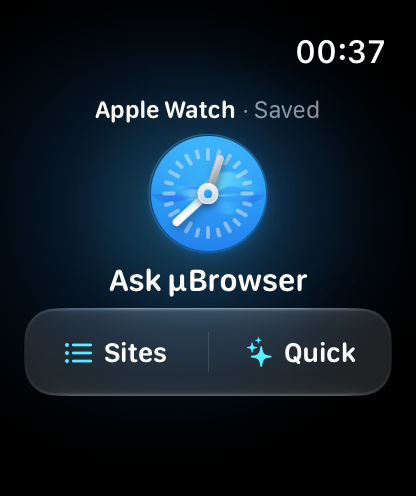
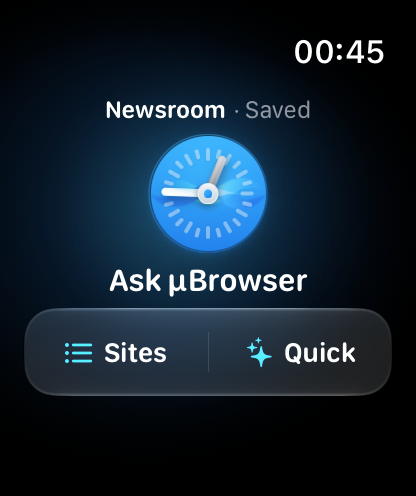
Update µBrowser press kit with latest Newsroom screenshots

Changed region(s): [[0.2188, 0.1815, 0.7812, 0.2419], [0.375, 0.3024, 0.5625, 0.4839], [0.6875, 0.0605, 0.9375, 0.1512]]

diff --git a/mubrowser-5-presskit/index.html b/mubrowser-5-presskit/index.html
@@ -28,13 +28,13 @@ sitemap: false
         <img src="screenshots/01-ask-mubrowser-introduction.png" alt="Ask µBrowser introduction on Apple Watch" width="416" height="496">
       </a>
       <a class="screenshot" href="screenshots/02-ask-mubrowser-home.png" download aria-label="Download the Ask µBrowser home screen screenshot">
-        <img src="screenshots/02-ask-mubrowser-home.png" alt="Ask µBrowser home screen with Sites and Quick actions" width="416" height="496">
+        <img src="screenshots/02-ask-mubrowser-home.png" alt="Ask µBrowser home screen with Newsroom saved and Sites and Quick actions" width="416" height="496">
       </a>
       <a class="screenshot" href="screenshots/03-quick-questions.png" download aria-label="Download the quick questions screenshot">
-        <img src="screenshots/03-quick-questions.png" alt="Quick questions for a webpage on Apple Watch" width="416" height="496">
+        <img src="screenshots/03-quick-questions.png" alt="Quick questions for Apple Newsroom on Apple Watch" width="416" height="496">
       </a>
-      <a class="screenshot" href="screenshots/04-source-backed-answer.png" download aria-label="Download the Apple Newsroom conversation screenshot">
-        <img src="screenshots/04-source-backed-answer.png" alt="Ask µBrowser answering What's new? with Apple Newsroom as the visible source" width="416" height="496">
+      <a class="screenshot" href="screenshots/04-source-backed-answer.png" download aria-label="Download the live Apple Newsroom conversation screenshot">
+        <img src="screenshots/04-source-backed-answer.png" alt="Live Ask µBrowser conversation about Apple Newsroom on Apple Watch Ultra 2, with a Limited notice" width="410" height="502">
       </a>
       <a class="screenshot" href="screenshots/05-settings.png" download aria-label="Download the µBrowser settings screenshot">
         <img src="screenshots/05-settings.png" alt="µBrowser search engine and Ask µBrowser settings" width="416" height="496">
